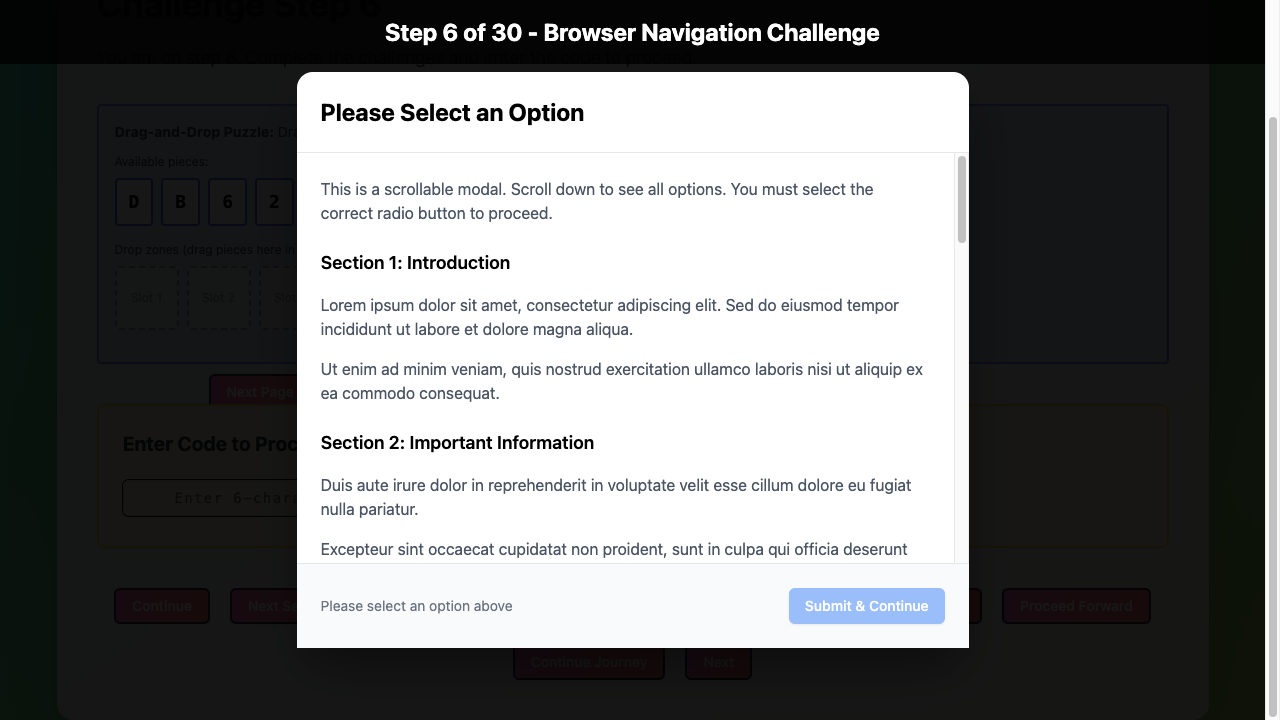
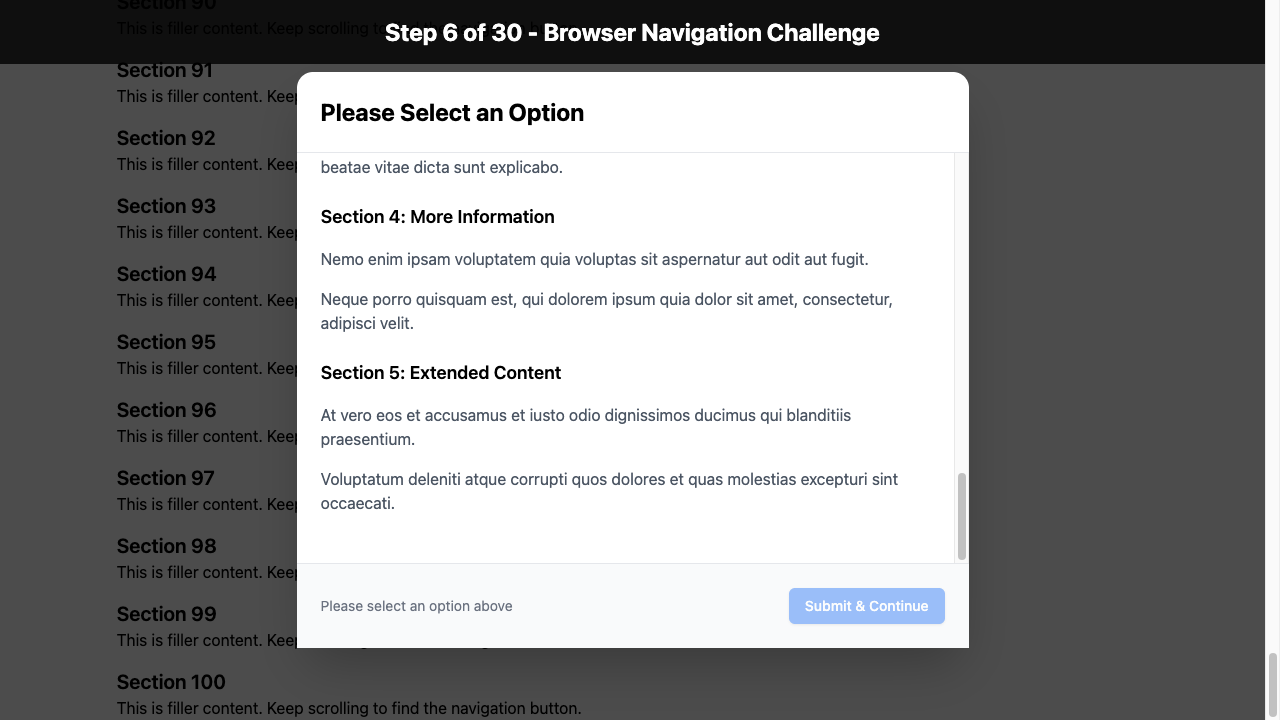
v24: Debug modal structure, find radio buttons

diff --git a/agent.js b/agent.js
@@ -1,6 +1,6 @@
 /**
- * Browser Challenge Agent v22
- * Use Playwright locators for radio buttons
+ * Browser Challenge Agent v24
+ * Debug modal structure, find radio buttons
  */
 const { chromium } = require('playwright');
 const fs = require('fs');
@@ -82,95 +82,122 @@ async function closePopups(page) {
   });
 }
 
-// Use Playwright locators to find radio buttons
+// DEBUG: Log modal structure and find radio buttons
 async function handleScrollableModal(page) {
-  // First, aggressively scroll modal to reveal hidden radio buttons
-  for (let i = 0; i <= 5; i++) {
+  // Check if modal exists and debug its structure
+  const modalInfo = await page.evaluate(() => {
+    const modal = document.querySelector('.fixed, [role="dialog"]');
+    if (!modal) return { hasModal: false };
+    
+    const radios = document.querySelectorAll('input[type="radio"]');
+    const scrollables = [];
+    
+    document.querySelectorAll('*').forEach(el => {
+      const style = window.getComputedStyle(el);
+      if ((style.overflowY === 'auto' || style.overflowY === 'scroll') && 
+          el.scrollHeight > el.clientHeight) {
+        scrollables.push({
+          tag: el.tagName,
+          className: el.className,
+          scrollHeight: el.scrollHeight,
+          clientHeight: el.clientHeight
+        });
+      }
+    });
+    
+    return {
+      hasModal: true,
+      radioCount: radios.length,
+      scrollables: scrollables.slice(0, 3),
+      radioLabels: Array.from(radios).map(r => {
+        const p = r.closest('div') || r.closest('label');
+        return p ? p.textContent.substring(0, 40) : 'no label';
+      })
+    };
+  });
+  
+  if (!modalInfo.hasModal) return false;
+  
+  // Log debug info
+  if (modalInfo.radioCount > 0) {
+    console.log(`  [Modal: ${modalInfo.radioCount} radios found]`);
+    console.log(`  [Labels: ${modalInfo.radioLabels.join(' | ')}]`);
+  } else {
+    console.log(`  [Modal: 0 radios, scrollables: ${JSON.stringify(modalInfo.scrollables)}]`);
+  }
+  
+  // Scroll through modal MORE aggressively - 10 positions
+  for (let i = 0; i <= 10; i++) {
     await page.evaluate((pct) => {
       document.querySelectorAll('*').forEach(el => {
         const style = window.getComputedStyle(el);
         if ((style.overflowY === 'auto' || style.overflowY === 'scroll') && 
             el.scrollHeight > el.clientHeight) {
-          el.scrollTop = el.scrollHeight * pct / 5;
+          el.scrollTop = el.scrollHeight * pct / 10;
         }
       });
     }, i);
-    await delay(80);
-  }
-  
-  try {
-    // Check for radio buttons using Playwright locator
-    const radios = page.locator('input[type="radio"]');
-    const count = await radios.count();
+    await delay(60);
     
-    if (count === 0) return false;
-    
-    // Find the correct one based on label text
-    for (let i = 0; i < count; i++) {
-      const radio = radios.nth(i);
-      const parent = radio.locator('xpath=..');
-      let text = '';
-      try {
-        text = (await parent.textContent({ timeout: 500 })).toLowerCase();
-      } catch (e) { continue; }
+    // Check for radio buttons at each scroll position
+    const radioClicked = await page.evaluate(() => {
+      const radios = Array.from(document.querySelectorAll('input[type="radio"]'));
+      if (radios.length === 0) return false;
       
-      // Check for correct indicators
-      const isCorrect = text.includes('correct') || text.includes('select this') || 
-                        text.includes('choose me') || text.includes('pick me') ||
-                        text.includes('this one');
-      const isWrong = text.includes('incorrect') || text.includes('wrong') || 
-                      text.includes('not this') || text.includes('don\'t');
+      const negatives = ['incorrect', 'wrong', 'not this', 'don\'t'];
+      const positives = ['correct', 'select this', 'choose me', 'this one', 'right'];
       
-      if (isCorrect && !isWrong) {
-        await radio.scrollIntoViewIfNeeded();
-        await radio.click();
-        await delay(150);
+      // Score each radio
+      let best = null;
+      let bestScore = -100;
+      
+      for (const radio of radios) {
+        const parent = radio.closest('div') || radio.closest('label') || radio.parentElement;
+        const text = parent ? parent.textContent.toLowerCase() : '';
         
-        // Click submit
-        const submitBtn = page.locator('button:has-text("Submit")');
-        if (await submitBtn.count() > 0) {
-          await submitBtn.first().click();
+        let score = 0;
+        for (const neg of negatives) if (text.includes(neg)) score -= 20;
+        for (const pos of positives) if (text.includes(pos)) score += 10;
+        
+        if (score > bestScore) {
+          bestScore = score;
+          best = radio;
         }
+      }
+      
+      // If no positive found, pick first non-negative
+      if (bestScore <= 0) {
+        for (const radio of radios) {
+          const parent = radio.closest('div') || radio.closest('label') || radio.parentElement;
+          const text = parent ? parent.textContent.toLowerCase() : '';
+          if (!negatives.some(n => text.includes(n))) {
+            best = radio;
+            break;
+          }
+        }
+      }
+      
+      if (best) {
+        best.scrollIntoView({ behavior: 'instant', block: 'center' });
+        best.click();
         return true;
       }
-    }
-    
-    // If no "correct" found, pick first non-wrong option
-    for (let i = 0; i < count; i++) {
-      const radio = radios.nth(i);
-      const parent = radio.locator('xpath=..');
-      let text = '';
-      try {
-        text = (await parent.textContent({ timeout: 500 })).toLowerCase();
-      } catch (e) { continue; }
-      
-      const isWrong = text.includes('incorrect') || text.includes('wrong') || 
-                      text.includes('not this') || text.includes('don\'t');
-      
-      if (!isWrong) {
-        await radio.scrollIntoViewIfNeeded();
-        await radio.click();
-        await delay(150);
-        
-        const submitBtn = page.locator('button:has-text("Submit")');
-        if (await submitBtn.count() > 0) {
-          await submitBtn.first().click();
-        }
-        return true;
-      }
-    }
-    
-  } catch (e) {
-    // Fallback to JS approach
-    await page.evaluate(() => {
-      document.querySelectorAll('*').forEach(el => {
-        const style = window.getComputedStyle(el);
-        if ((style.overflowY === 'auto' || style.overflowY === 'scroll') && 
-            el.scrollHeight > el.clientHeight) {
-          el.scrollTop = el.scrollHeight;
-        }
-      });
+      return false;
     });
+    
+    if (radioClicked) {
+      await delay(100);
+      // Click submit
+      await page.evaluate(() => {
+        document.querySelectorAll('button').forEach(btn => {
+          const text = btn.textContent || '';
+          if (text.includes('Submit')) {
+            if (!btn.disabled) btn.click();
+          }
+        });
+      });
+      return true;
+    }
   }
   
   return false;
@@ -282,8 +309,8 @@ async function solveStep(page, step) {
 
 async function run() {
   console.log('╔════════════════════════════════════════════╗');
-  console.log('║  Browser Challenge Agent v22               ║');
-  console.log('║  Playwright locators for radios            ║');
+  console.log('║  Browser Challenge Agent v24               ║');
+  console.log('║  Debug modal + aggressive scroll           ║');
   console.log('╚════════════════════════════════════════════╝\n');
   
   metrics.startTime = Date.now();
@@ -343,13 +370,13 @@ async function run() {
         await delay(300);
       } else {
         stuckCount++;
-        if (stuckCount === 60) {
+        if (stuckCount === 70) {
           await page.screenshot({ path: `stuck-step${step}.png` });
           console.log(`  [Stuck on step ${step}]`);
         }
       }
       
-      await delay(35);
+      await delay(30);
     }
     
   } catch (error) {
